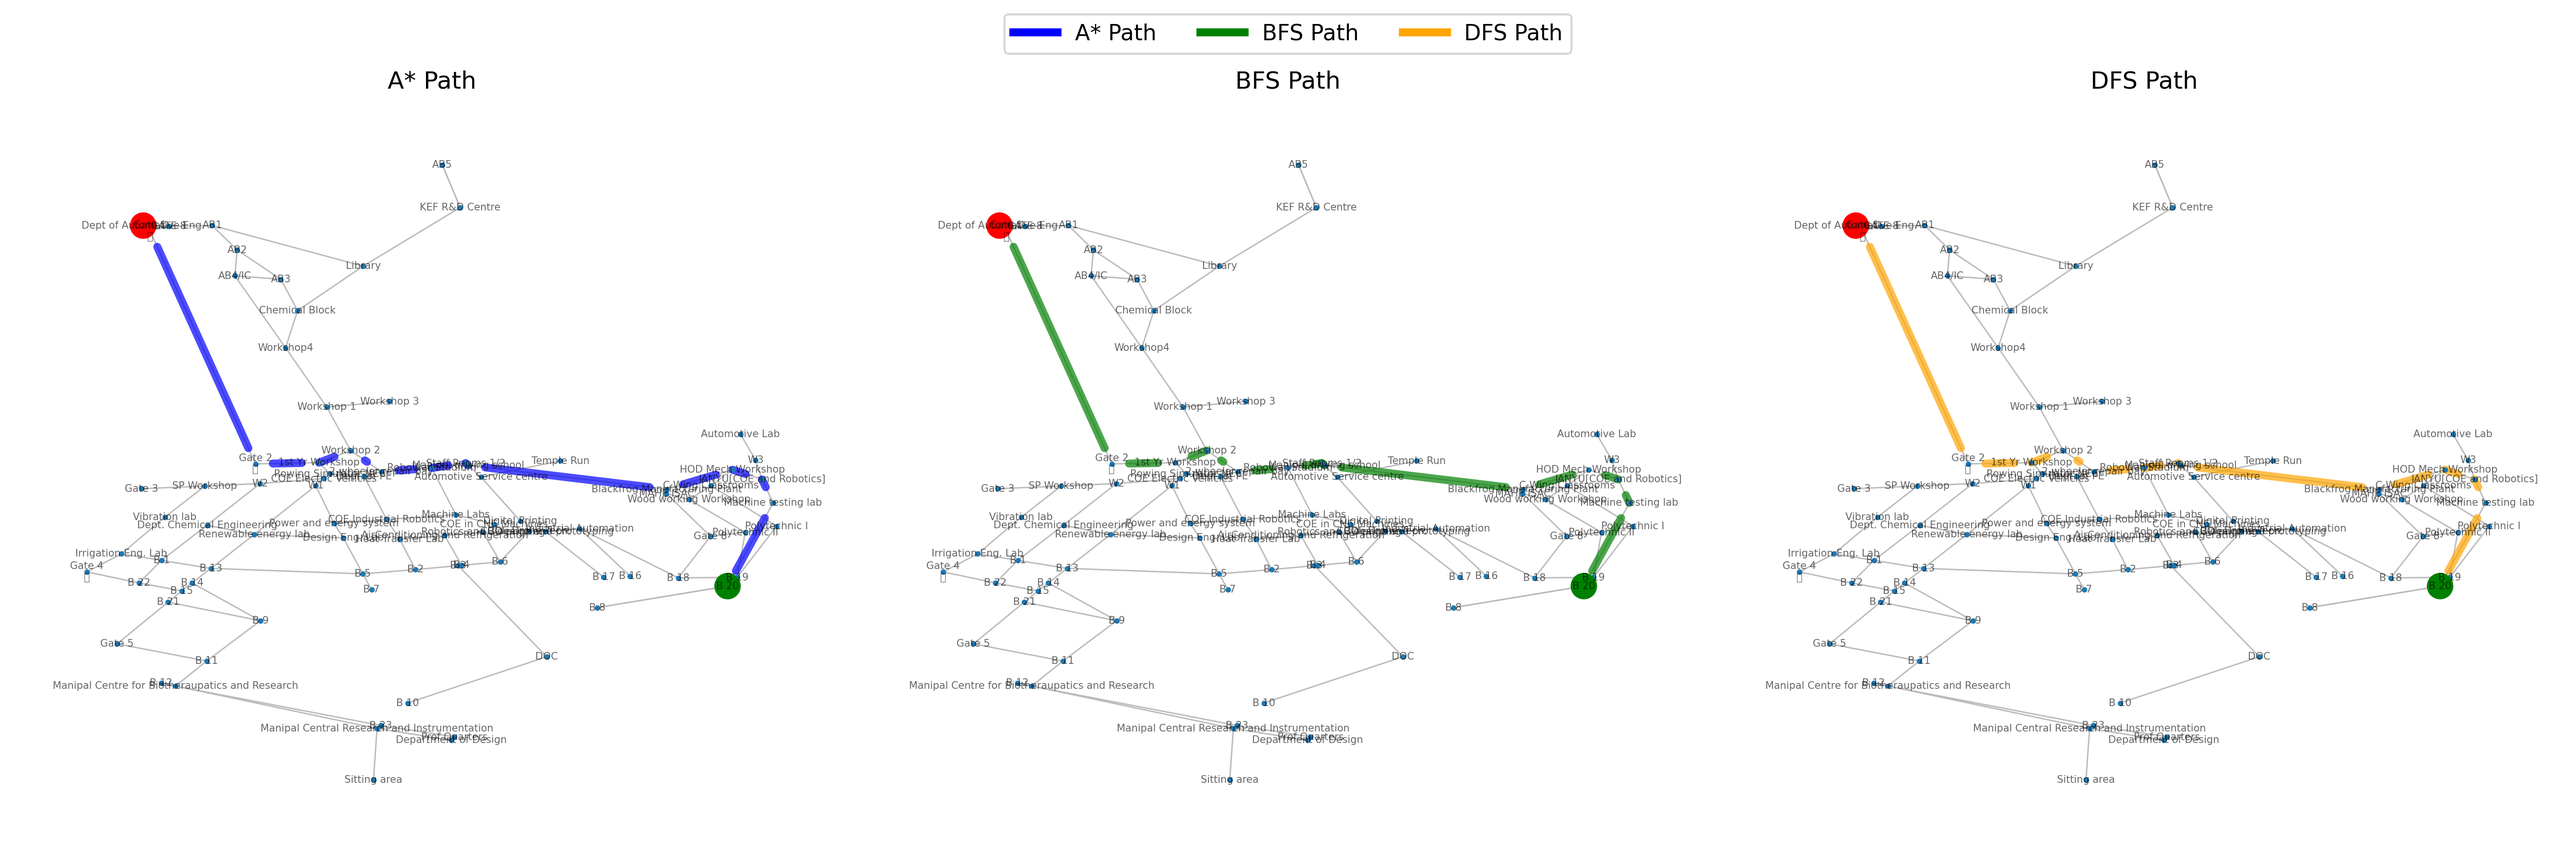
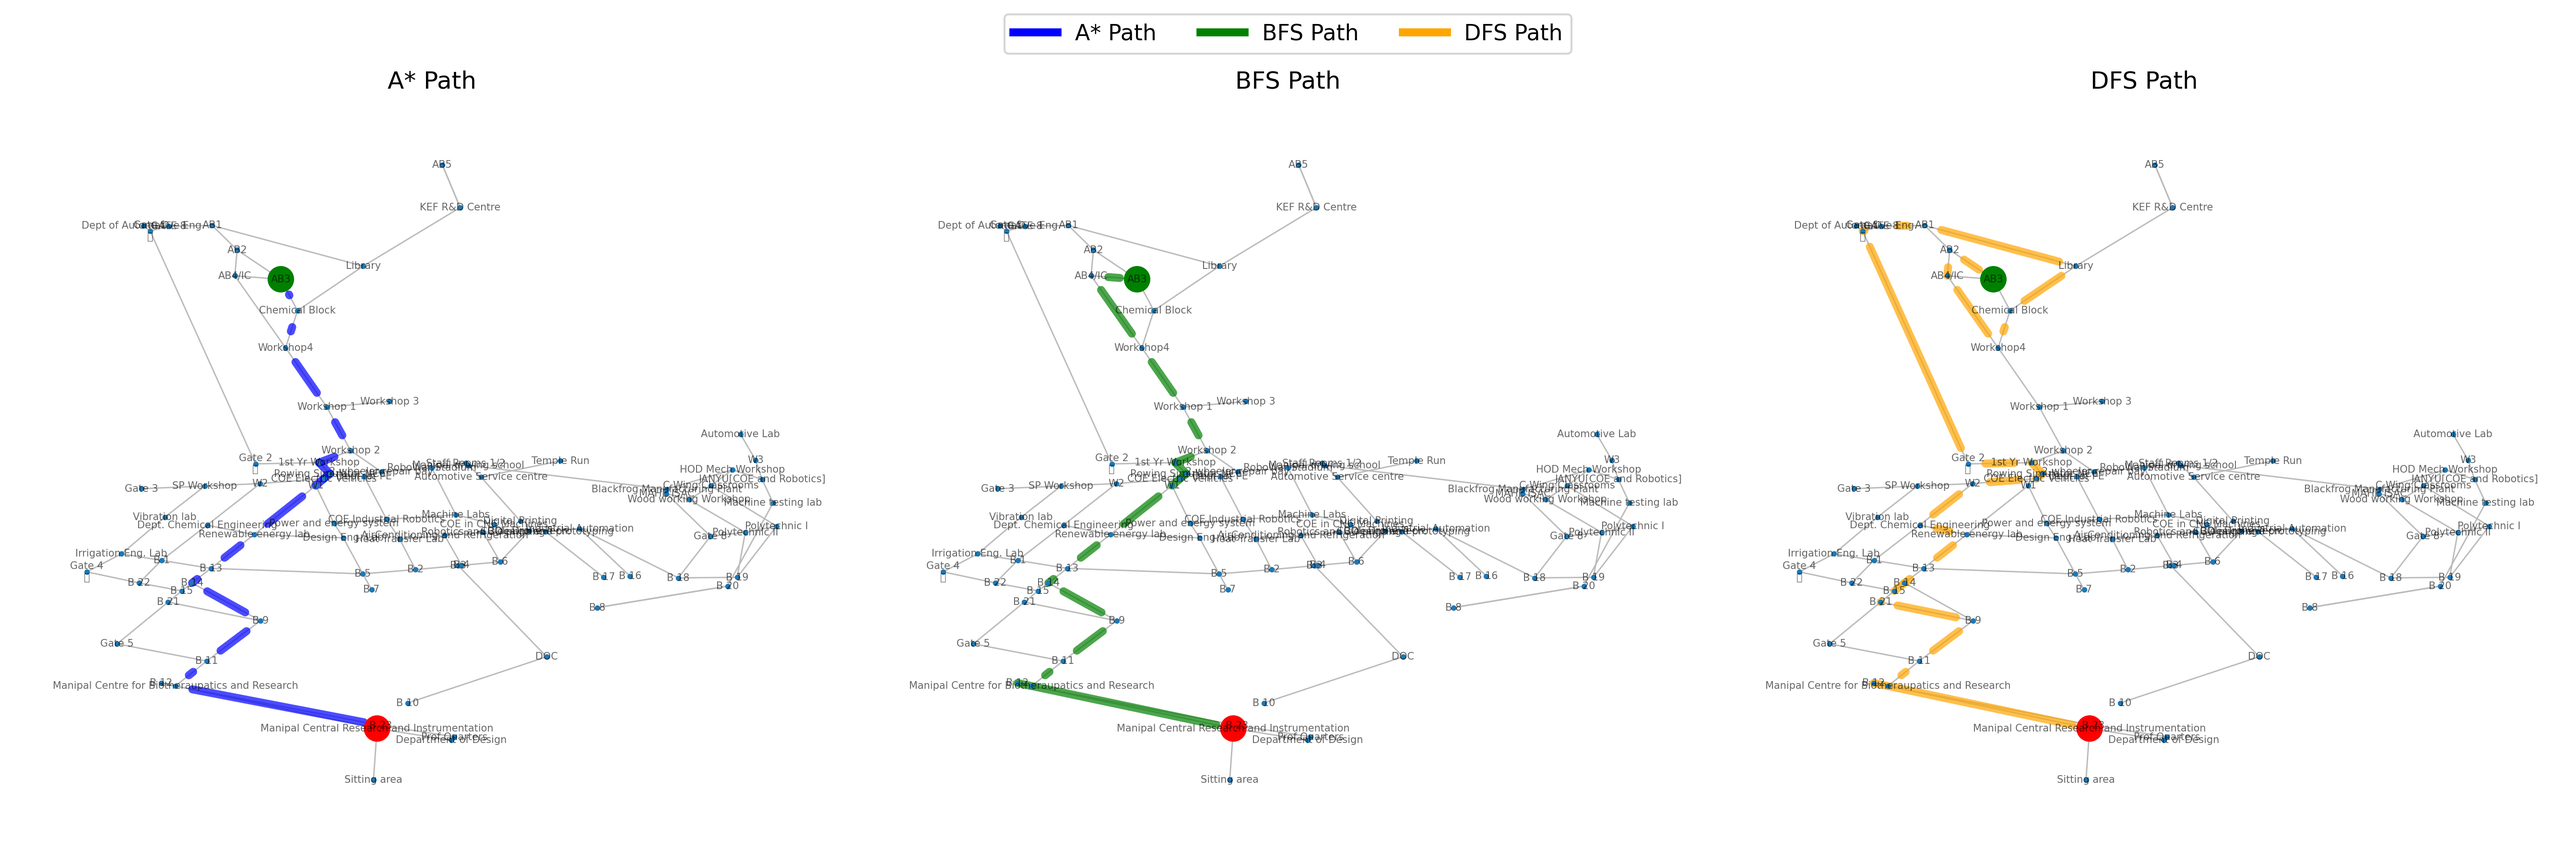
final final demo

diff --git a/person3/visualization.py b/person3/visualization.py
@@ -4,8 +4,13 @@ import matplotlib
 import matplotlib.lines as mlines
 import math
 from matplotlib.animation import FuncAnimation
+import sys
+import os
 
-matplotlib.use('TkAgg') #this line is needed ONLY ON LINUX (remove for windows)
+matplotlib.use('TkAgg') # remove on Windows
+
+sys.path.append(os.path.abspath("../person2"))
+from two import run_astar, run_bfs, run_dfs
 
 
 # WINDOW 1: MOUSE INTERACTION
@@ -91,12 +96,11 @@ def interactive_route_selection(G, pos):
             state["goal"] = node
             state["done"] = True
 
-
         redraw()
 
     fig.canvas.mpl_connect("button_press_event", on_click)
     
-    redraw()   #draw graph before waiting for clicks
+    redraw()
     while not state["done"]:
         plt.pause(0.1)
 
@@ -104,7 +108,7 @@ def interactive_route_selection(G, pos):
     return state["start"], state["goal"]
 
     
- # WINDOW 2: A* ANIMATION   
+# WINDOW 2: A* ANIMATION   
 
 def animate_path(G, pos, path):
 
@@ -120,13 +124,13 @@ def animate_path(G, pos, path):
     )
 
     nx.draw_networkx_labels(
-    G,
-    pos,
-    labels=labels,
-    font_size=6,
-    font_color="black",
-    alpha=0.6,
-    ax=ax
+        G,
+        pos,
+        labels=labels,
+        font_size=6,
+        font_color="black",
+        alpha=0.6,
+        ax=ax
     )
 
     ax.set_title("A* Route Navigation")
@@ -151,6 +155,7 @@ def animate_path(G, pos, path):
 
     plt.show()
 
+
 # WINDOW 3: FULL GRAPH + PATH COMPARISON
 
 def visualize_comparison(G, pos,start,goal,astar_path,bfs_path,dfs_path):
@@ -163,34 +168,40 @@ def visualize_comparison(G, pos,start,goal,astar_path,bfs_path,dfs_path):
             pos,
             node_size=3,
             edge_color="#bbbbbb",
-            width =0.7,
+            width=0.7,
             alpha=1,
             ax=ax
         )
 
         edges=list(zip(path, path[1:])) 
-        nx.draw_networkx_edges(G.to_undirected(), 
-                               pos,
-                            edgelist=edges,
-                            edge_color=color,
-                            width=4,
-                            alpha=0.7,
-                            ax=ax)
+        nx.draw_networkx_edges(
+            G.to_undirected(), 
+            pos,
+            edgelist=edges,
+            edge_color=color,
+            width=4,
+            alpha=0.7,
+            ax=ax
+        )
 
-        nx.draw_networkx_nodes(G, 
-                           pos, 
-                           nodelist=[start,goal], 
-                           node_color=['green','red'], 
-                           node_size=150, 
-                           ax=ax)  
+        nx.draw_networkx_nodes(
+            G, 
+            pos, 
+            nodelist=[start,goal], 
+            node_color=['green','red'], 
+            node_size=150, 
+            ax=ax
+        )  
+
         nx.draw_networkx_labels(
-                            G,
-                            pos,
-                            labels=labels,
-                            font_size=5,
-                            font_color="black",
-                            alpha=0.6,
-                            ax=ax) 
+            G,
+            pos,
+            labels=labels,
+            font_size=5,
+            font_color="black",
+            alpha=0.6,
+            ax=ax
+        ) 
         
         ax.set_title(title)
         ax.axis('off') 
@@ -198,48 +209,51 @@ def visualize_comparison(G, pos,start,goal,astar_path,bfs_path,dfs_path):
     draw(axes[0], astar_path, "A* Path", 'blue')
     draw(axes[1], bfs_path, "BFS Path", 'green')
     draw(axes[2], dfs_path, "DFS Path", 'orange')
-    legend_handles = [mlines.Line2D([], [], color='blue', linewidth=4, label='A* Path'),
-                      mlines.Line2D([], [], color='green', linewidth=4, label='BFS Path'),
-                      mlines.Line2D([], [], color='orange', linewidth=4, label='DFS Path')]
-    
 
-    fig.legend(handles=legend_handles, loc='upper center',bbox_to_anchor=(0.5, 1.0), ncol=3,fontsize=11)
-    
+    legend_handles = [
+        mlines.Line2D([], [], color='blue', linewidth=4, label='A* Path'),
+        mlines.Line2D([], [], color='green', linewidth=4, label='BFS Path'),
+        mlines.Line2D([], [], color='orange', linewidth=4, label='DFS Path')
+    ]
+
+    fig.legend(handles=legend_handles, loc='upper center',
+               bbox_to_anchor=(0.5, 1.0), ncol=3, fontsize=11)
+
     plt.tight_layout(rect=[0, 0, 1, 0.95])
-    plt.savefig("algorithm_comparison.png", dpi=300,bbox_inches="tight")
+    plt.savefig("algorithm_comparison.png", dpi=300, bbox_inches="tight")
     plt.show()
 
 
-# TESTING
+# ---------------- MAIN ----------------
 
 if __name__ == "__main__":
 
     G = nx.read_graphml("../person1/mit_clean.graphml")
 
     pos = {
-        n: (float(G.nodes[n]['x']),
-            float(G.nodes[n]['y']))
+        n: (float(G.nodes[n]['x']), float(G.nodes[n]['y']))
         for n in G.nodes
     }
 
+    # ensure weights exist
+    for u, v, d in G.edges(data=True):
+        d["length"] = float(d.get("length", 1.0))
+
     labels = {
-    node: data.get("label")
-    for node, data in G.nodes(data=True)
-    if data.get("label") not in [None, "Unknown"]
+        node: data.get("label")
+        for node, data in G.nodes(data=True)
+        if data.get("label") not in [None, "Unknown"]
     }
 
-
-    #------------------------------------WINDOW 1: USER INTERACTION------------------------------------
+    # WINDOW 1
     start, goal = interactive_route_selection(G, pos)
 
-    #------------------------------------RUN ALGORITHMS------------------------------------
-    astar_path = nx.shortest_path(G, start, goal)                           # to be changed to actual A* path later
-    bfs_path = astar_path[::-1]                                            # to be changed to actual BFS path later
-    dfs_path = astar_path[:]                                                # to be changed to actual DFS path later
+    astar_path = run_astar(G, start, goal, pos)
+    bfs_path = run_bfs(G, start, goal)
+    dfs_path = run_dfs(G, start, goal)
 
+    # WINDOW 2
+    animate_path(G, pos, astar_path)
 
-    #------------------------------------WINDOW 2: A* ANIMATION------------------------------------
-    animate_path(G, pos, astar_path)    
-
-    #------------------------------------WINDOW 3: FULL GRAPH + PATH COMPARISON------------------------------------
+    # WINDOW 3
     visualize_comparison(G, pos, start, goal, astar_path, bfs_path, dfs_path)
